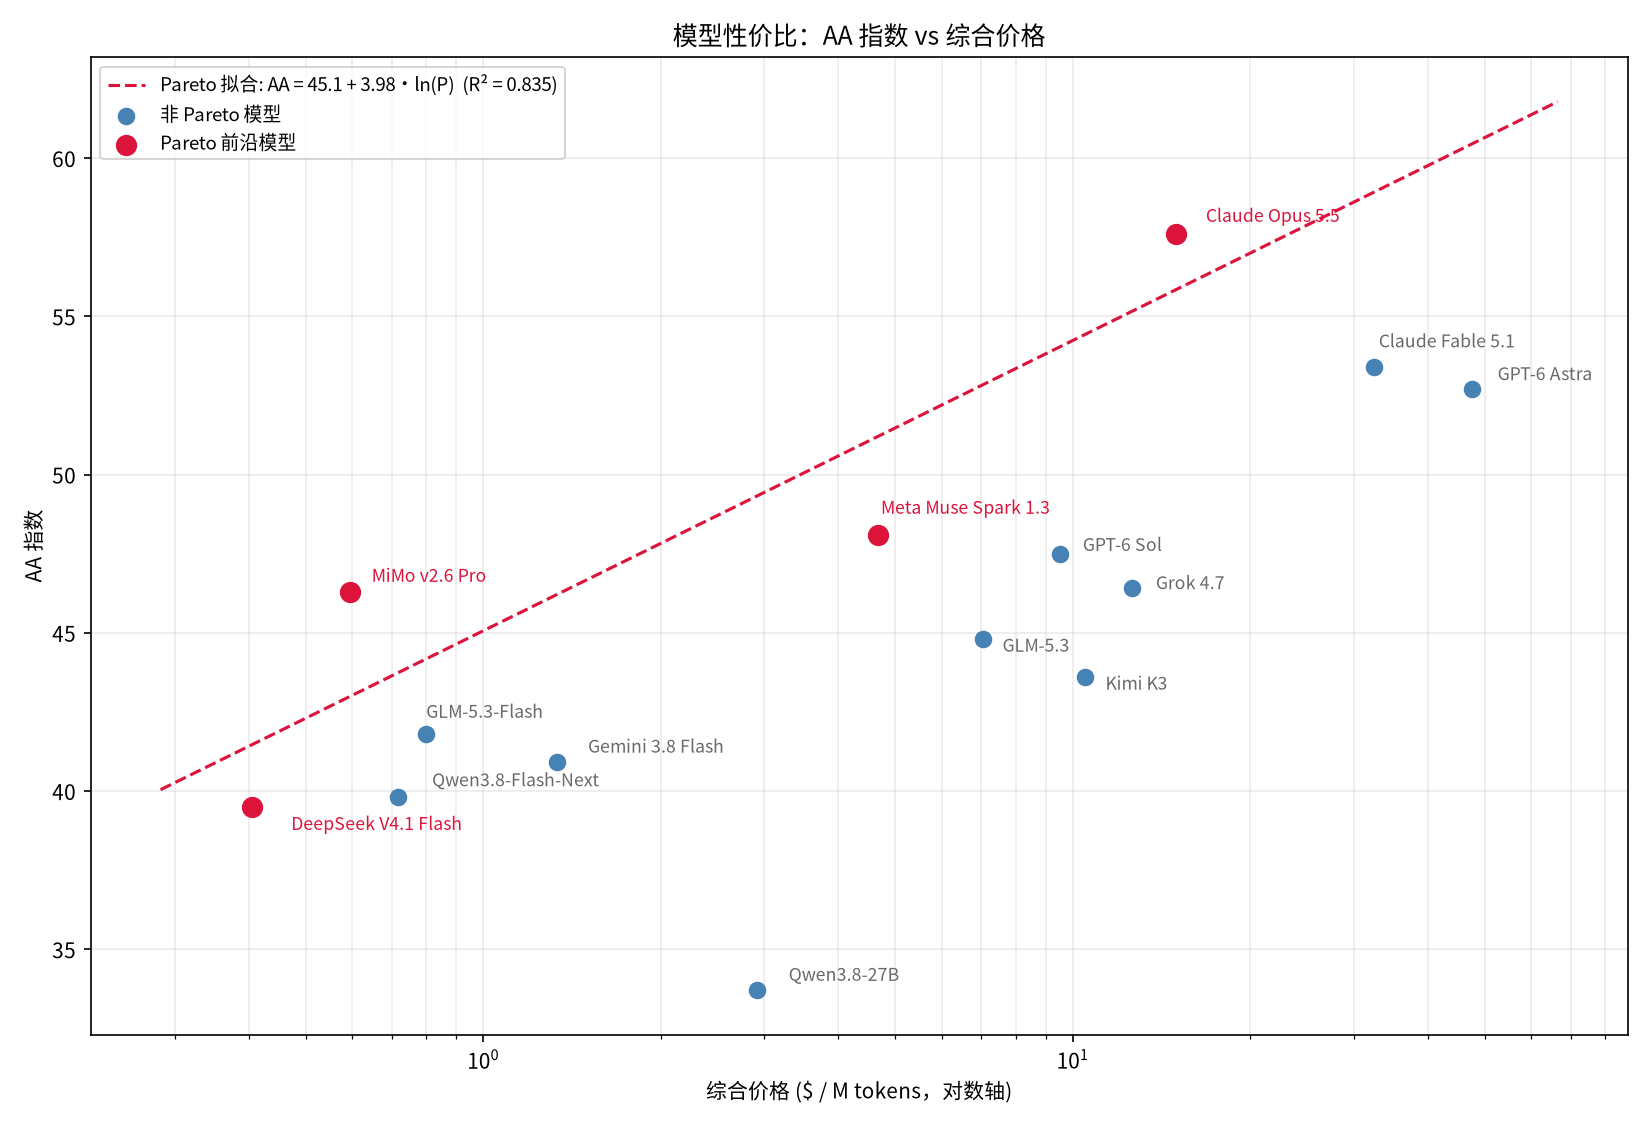
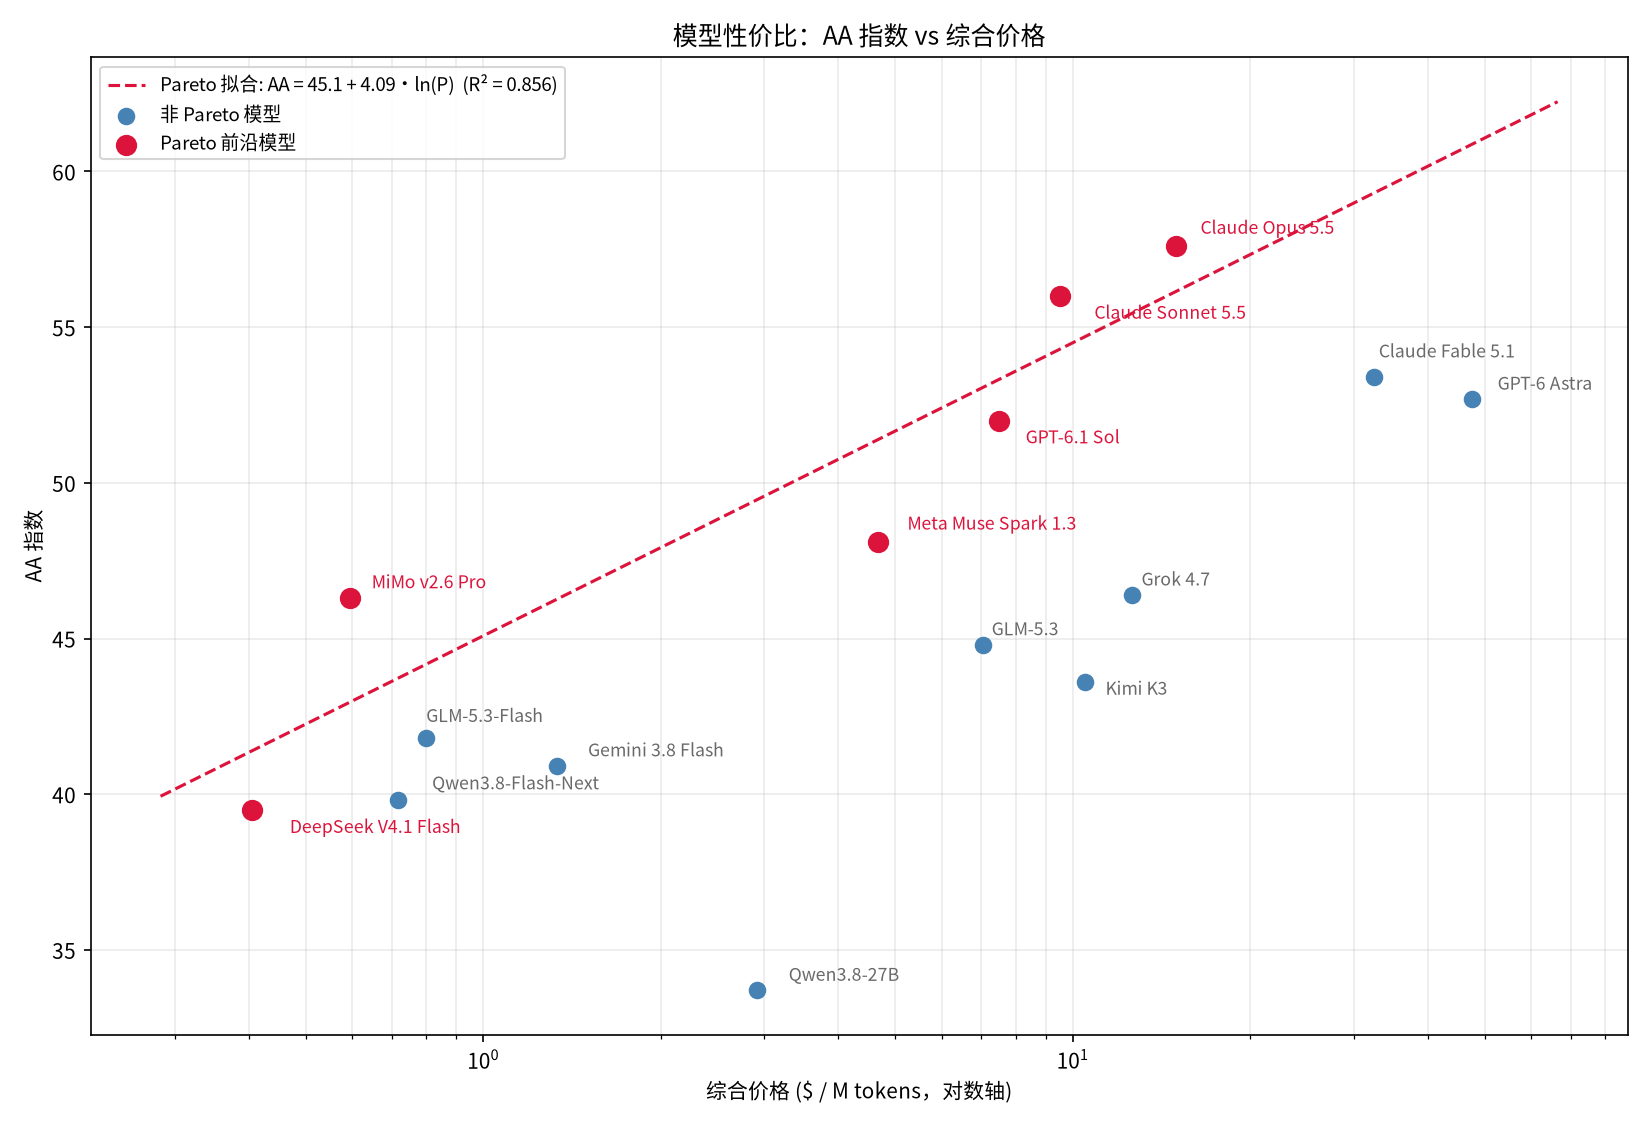
comparison: 更新闭源模型比较数据

diff --git a/comparison/plot_price_vs_aa.py b/comparison/plot_price_vs_aa.py
@@ -10,9 +10,10 @@ plt.rcParams["axes.unicode_minus"] = False
 # 模型: (综合价格 $/M tokens, AA指数)
 data = {
     "GPT-6 Astra": (47.5, 52.7),
-    "GPT-6 Sol": (9.5, 47.5),
+    "GPT-6.1 Sol": (7.5, 52.0),
     "Claude Fable 5.1": (32.5, 53.4),
     "Claude Opus 5.5": (15, 57.6),
+    "Claude Sonnet 5.5": (9.5, 56.0),
     "Gemini 3.8 Flash": (1.33333, 40.9),
     "Grok 4.7": (12.6, 46.4),
     "Meta Muse Spark 1.3": (4.675, 48.1),

diff --git a/comparison/README.md b/comparison/README.md
@@ -2,7 +2,7 @@
 
 数据收纳几类模型：
 
-1. 闭源最强大模型。三个：Claude Opus 5.5、Claude Fable 5.1和GPT-6 Astra。
+1. 闭源最强大模型。两个：Claude Opus 5.5和Claude Sonnet 5.5。
 2. 开源最强大模型。三个：MiMo v2.6 Pro、GLM-5.3和Kimi K3。
 3. 个人低成本独立部署。一个：Qwen3.8-27B。
 4. 公司可离线部署。两个：GLM-5.3-Flash和Qwen3.8-Flash-Next。
@@ -19,9 +19,10 @@
 | 模型 | 发布时间 | 开放性 | 参数量 | 激活参数量 | 多模态 | 上下文 | 下载 |
 |---|---:|---:|---:|---:|---:|---:|---|
 | [GPT-6 Astra](https://developers.openai.com/api/docs/models/gpt-6-astra) | 2026-09-03 | 闭 | -- | -- | V | 1M | -- |
-| [GPT-6 Sol](https://developers.openai.com/api/docs/models/gpt-6-sol) | 2026-09-22 | 闭 | -- | -- | V | 1M | -- |
+| [GPT-6.1 Sol](https://developers.openai.com/api/docs/models/gpt-6.1-sol) | 2026-09-29 | 闭 | -- | -- | V | 1.05M | -- |
 | [Claude Fable 5.1](https://www.anthropic.com/claude-fable-and-mythos-5-1) | 2026-09-01 | 闭 | -- | -- | V | 1M | -- |
 | [Claude Opus 5.5](https://www.anthropic.com/claude-opus-5-5) | 2026-09-22 | 闭 | -- | -- | V | 1M | -- |
+| [Claude Sonnet 5.5](https://www.anthropic.com/claude-sonnet-5-5) | 2026-09-28 | 闭 | -- | -- | V | 1M | -- |
 | [Gemini 3.8 Flash](https://ai.google.dev/gemini-api/docs/models/gemini-3.8-flash) | 2026-09-02 | 闭 | -- | -- | V/A | 1M | -- |
 | [Grok 4.7](https://x.ai/news/grok-4-7) | 2026-09-21 | 闭 | -- | -- | V | 500k | -- |
 | [Meta Muse Spark 1.3](https://research.meta.ai/blog/introducing-muse-spark-1-3) | 2026-09-02 | 闭 | -- | -- | V | 1M | -- |
@@ -42,26 +43,27 @@
 
 | 模型 | 输入价格 | 输出价格 | 缓存读取 | 缓存写入 | 综合价格 | 性价比 |
 |---|---:|---:|---:|---:|---:|---:|
-| GPT-6 Astra | \$10 | \$50 | \$1 | \$12.5 | \$47.5 | 81.0% |
-| GPT-6 Sol | \$2 | \$10 | \$0.2 | \$2.5 | \$9.5 | 81.7% |
-| Claude Fable 5.1 | \$10 | \$50 | \$0.25 | \$12.5 | \$32.5 | 84.1% |
-| Claude Opus 5.5 | \$4 | \$20 | \$0.2 | \$5 | \$15 | **95.8%** |
-| Gemini 3.8 Flash | \$0.375 | \$1.875 | \$0.0375 | \$0.020833 | \$1.33333 | 82.2% |
-| Grok 4.7 | \$2 | \$6 | \$0.5 | -- | \$12.6 | 78.1% |
-| Meta Muse Spark 1.3 | \$1.25 | \$4.25 | \$0.15 | -- | \$4.675 | **87.2%** |
+| GPT-6 Astra | \$10 | \$50 | \$1 | \$12.5 | \$47.5 | 80.3% |
+| GPT-6.1 Sol | \$2 | \$10 | \$0.1 | \$2.5 | \$7.5 | **90.5%** |
+| Claude Fable 5.1 | \$10 | \$50 | \$0.25 | \$12.5 | \$32.5 | 83.5% |
+| Claude Opus 5.5 | \$4 | \$20 | \$0.2 | \$5 | \$15 | **95.2%** |
+| Claude Sonnet 5.5 | \$2 | \$10 | \$0.2 | \$2.5 | \$9.5 | **95.7%** |
+| Gemini 3.8 Flash | \$0.375 | \$1.875 | \$0.0375 | \$0.020833 | \$1.33333 | 82.0% |
+| Grok 4.7 | \$2 | \$6 | \$0.5 | -- | \$12.6 | 77.6% |
+| Meta Muse Spark 1.3 | \$1.25 | \$4.25 | \$0.15 | -- | \$4.675 | **86.8%** |
 | MiMo v2.6 Pro | \$0.435 | \$0.87 | \$0.0036 | -- | \$0.594 | **100.0%** |
-| Kimi K3 | \$3 | \$15 | \$0.3 | -- | \$10.5 | 74.4% |
-| GLM-5.3 | \$1.4 | \$4.4 | \$0.26 | -- | \$7.04 | 78.7% |
-| GLM-5.3-Flash | \$0.15 | \$0.5 | \$0.03 | -- | \$0.8 | 87.9% |
+| Kimi K3 | \$3 | \$15 | \$0.3 | -- | \$10.5 | 74.0% |
+| GLM-5.3 | \$1.4 | \$4.4 | \$0.26 | -- | \$7.04 | 78.3% |
+| GLM-5.3-Flash | \$0.15 | \$0.5 | \$0.03 | -- | \$0.8 | 87.8% |
 | DeepSeek V4.1 Flash | \$0.30 / \$0.15 | \$1.20 / \$0.60 | \$0.006 / \$0.003 | -- | \$0.405 | **88.5%** |
-| Qwen3.8-Flash-Next | \$0.15 | \$0.47 | \$0.016 | \$0.2 | \$0.717 | 84.5% |
-| Qwen3.8-27B | \$0.425 | \$2.55 | \$0.085 | \$0.53125 | \$2.91125 | 63.4% |
+| Qwen3.8-Flash-Next | \$0.15 | \$0.47 | \$0.016 | \$0.2 | \$0.717 | 84.4% |
+| Qwen3.8-27B | \$0.425 | \$2.55 | \$0.085 | \$0.53125 | \$2.91125 | 63.2% |
 
 - 不参考套餐/批量折扣/限时优惠价格，表中采用官方原价。
 - 综合价格按“0.1 × 输出价格 + 输入价格 + 20 × 缓存读取价格 + 缓存写入价格”计算。未提供缓存写入价格的 `--` 在本项计算中按 0 计。它表示实际载荷每处理 1M 输入 tokens 对应的真实成本：与这 1M 输入对应的输出、缓存读取和缓存写入量，分别按实际比例乘以各自单价后，与输入成本相加。
 - 有峰谷价格的，综合价格按峰谷价的平均数计算。
 - Grok 4.7 的 prompt ≥200K 长文档位（输入/输出/缓存读取翻倍）与 2 倍价格的 fast 变体均未计入，综合价格按 <200K 标准档计算。
-- 性价比从当前表中选出“相同或更低综合价格下不存在更高 AA 指数模型”的 4 个 Pareto 前沿模型，拟合得到 `预期 AA 指数 = 45.0611 + 3.9836 × ln(综合价格)`（R² = 0.835），最后计算“实际 AA 指数 / 预期 AA 指数 × 92.8425%”。该系数按当前模型集合中的最高原始性价比 92.8425% 归一化，使最高分恰为 100%；其余分数均落在 0–100% 区间。该拟合是当前模型集合内的相对比较，模型或价格变化后需要重新筛选 Pareto 前沿并整体重算。
+- 性价比从当前表中选出“相同或更低综合价格下不存在更高 AA 指数模型”的 6 个 Pareto 前沿模型，拟合得到 `预期 AA 指数 = 45.0853 + 4.0876 × ln(综合价格)`（R² = 0.856），最后计算“实际 AA 指数 / 预期 AA 指数 × 92.7777%”。该系数按当前模型集合中的最高原始性价比 92.7777% 归一化，使最高分恰为 100%；其余分数均落在 0–100% 区间。该拟合是当前模型集合内的相对比较，模型或价格变化后需要重新筛选 Pareto 前沿并整体重算。
 - Pareto模型的性价比已经被加粗。
 - 价格-AA 关系图（横轴为对数综合价格，纵轴为 AA 指数，红点为 Pareto 前沿模型，红色虚线为 Pareto 拟合线）：
 
@@ -83,9 +85,10 @@
 | 模型 | SciCode | Terminal-Bench 2.1 | τ³-Banking | HLE | CritPt | AA指数 |
 |---|---:|---:|---:|---:|---:|---:|
 | GPT-6 Astra | 56.5% | 88.4% | 41.4% | 54.7% | 31.7% | 52.7% |
-| GPT-6 Sol | 57.6% | -- | -- | 47.9% | 30.9% | 47.5% |
+| GPT-6.1 Sol | -- | -- | -- | -- | -- | 52.0% |
 | Claude Fable 5.1 (with fallback) | 63.1% | 91.4% | 47.2% | 59.1% | 29.7% | 53.4% |
 | Claude Opus 5.5 (with fallback) | 67.0% | -- | -- | 61.0% | 32.0% | 57.6% |
+| Claude Sonnet 5.5 (with fallback) | -- | -- | -- | 64.5% | -- | 56.0% |
 | Gemini 3.8 Flash | 56.6% | 87.6% | 44.9% | 47.8% | 18.3% | 40.9% |
 | Grok 4.7 | 57.4% | -- | -- | 43.1% | 17.7% | 46.4% |
 | Meta Muse Spark 1.3 | 58.8% | -- | 50.5% | 48.7% | 24.9% | 48.1% |
@@ -97,14 +100,16 @@
 | Qwen3.8-Flash-Next | 50.6% | -- | -- | 38.0% | 11.1% | 39.8% |
 | Qwen3.8-27B | 46.6% | 73.0% | -- | 33.9% | 5.4% | 33.7% |
 
-- 数据核对日期：2026-09-23；AA 指数版本：v4.3.2。表中 AA 指数保留一位小数。
+- 数据核对日期：2026-09-30；AA 指数版本：v4.3.2。表中 AA 指数保留一位小数。
 - 数据优先采用AA独立评测，其次采用官方模型卡/报告。两者均不存在时，参考采信第三方评价或官方估计值。
 - 闭源推理模型使用表中成绩对应的高推理档位；Claude Fable 5.1 与 Claude Opus 5.5 的 AA 评测启用了默认 fallback，因此单独标注。
+- Claude Sonnet 5.5 的 HLE 分数来自 Anthropic 官方发布页；其官方 Terminal-Bench 4.0 分数与本表的 Terminal-Bench 2.1 不同版本，未混用。GPT-6.1 Sol 暂无本表其余单项评测的公开同口径成绩。
 
 # 用户反馈收集
 
-- 闭源里面，Opus 4.7和Gemini 3.8 Flash是偏好评的。Opus 4.7的评价是“老实干活儿的老二”。Gemini的评价是“支持视频理解”+“价格战赢家”，缺点是幻觉。
-- Opus 5.5刚出，还没看到反馈。
+- 闭源里面，Opus 5.5和Gemini 3.8 Flash是偏好评的。
+- Opus 5.5反馈逆天，号称“全球最好用模型”，“老实干活儿的老二回来了，还当了老大”。
+- Gemini 3.8 Flash的评价是“支持视频理解”+“价格战赢家”，缺点是幻觉。
 - Astra的评价极度两极分化。
 - Grok被吐槽“只有NSFW是刚需”。而且这批人还在流向Qwen3.8-27B。
 - 开源里面，MiMo v2.6 Pro中评偏差。评价是“性价比高跑分漂亮，然而不能干活儿”。
@@ -116,9 +121,11 @@
 
 # 点评
 
-- 最强阵营里，Astra->Fable->Opus依次向高智能高性价比进发。
+- 最强阵营里，Astra->Fable->Sonnet->Opus依次向高智能高性价比进发。
+  - Claude这边比较诡异的是Fable。已经被新款Opus和Sonnet落在了身后。
+  - OpenAI这边是全面拉胯，
 - 第二集群里，K3->GLM-5.3->Spark1.3依次进发。当然，Spark1.3闭源。
-  - GPT-6 Sol混到第二集群里了，混得真差。
+  - 同行太给力，Spark 1.3性价比都不高了。
 - 第三集群主打高性价比。里面MiMo v2.6 Pro一枝独秀，甚至压住了不少第二集群选手。当然，评价就是另一回事儿了。
   - 去掉一个最高分，巅峰二位是GLM-5.3-Flash和DeepSeek V4.1 Flash。
 - Qwen3.8-27B自己一桌吃饭。
